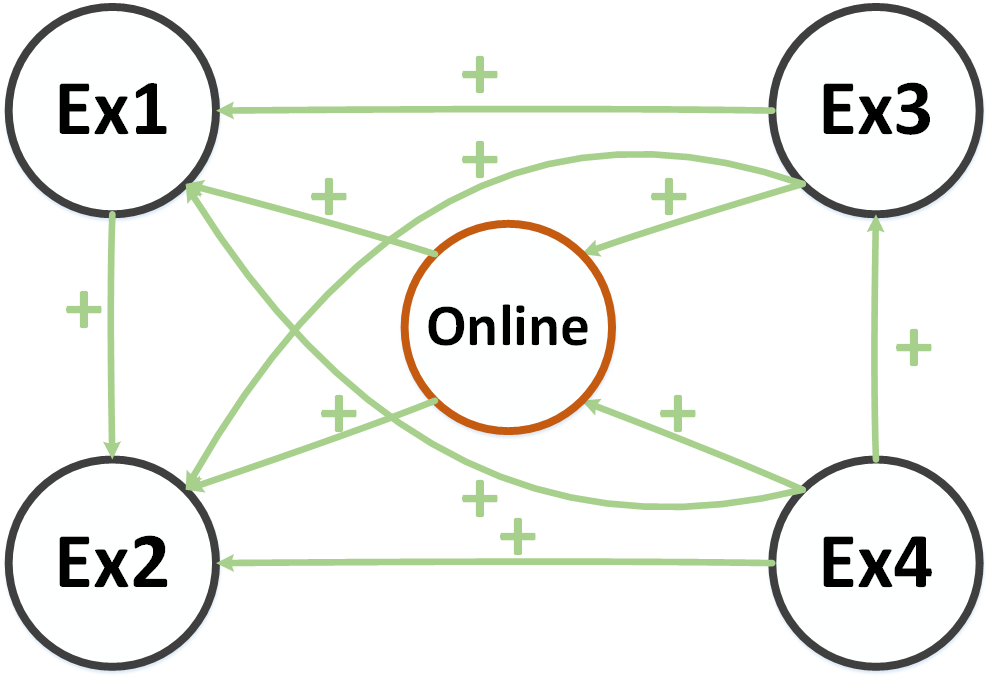
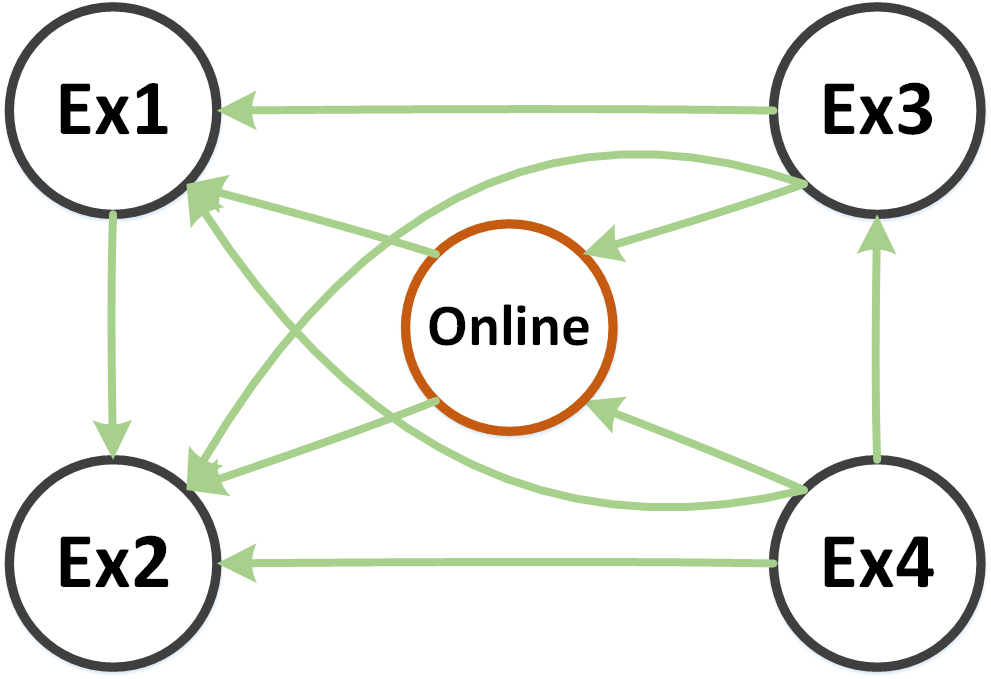
0311
0311午

diff --git a/For journal/sec/onlineobservability.tex b/For journal/sec/onlineobservability.tex
@@ -2,11 +2,12 @@
 % !TEX root = ../root.tex
 \section{The online observability of \BCNs}
 \label{sec:online}
-In this section we propose the online observability to solve the problem mentioned before, and we will introduce its related information in detail. We give the informal definition of it at first. 
-
+In this section we propose the online observability to solve the problem mentioned before, and we will introduce its related information in detail. 
 %\begin{definition}
-	A \BCN\ satisfies the online observability iff its initial state $s_0$ can be determined in real time for every $s_0 \in \Delta_N$. %In the online observability we determine the state of \BCN\ by observing its output sequence and then deriving and deciding the input sequence at every time step. What is more, this process can be accomplished in finite time steps.
+	 %In the online observability we determine the state of \BCN\ by observing its output sequence and then deriving and deciding the input sequence at every time step. What is more, this process can be accomplished in finite time steps.
 %\end{definition}  without presupposing the initial state of \BCN
+
+In the existing third and fourth observability, there has to exist an input sequence that determines its initial state $s_0$ if a \BCN\ satisfies the observability. But we can use different input sequences to determine initial state ($s_0\in S_0$) for different sets of possible initial states, where $S_0$ the set of possible initial states derived by initial output $o_1$ we observe. In this case, the requirements for \BCNs\ to determine the initail state would be less harsh since we utilize the set of possible initial states $S_0$ to find the input sequence. Furthermore, if we utilize the sets of possible initial states $S_0$ and $S_1$ to find the input sequence to determine the initail state, the requirements for \BCNs\ would further less harsh. Therefore, in the online observability we find input sequence by the $S_k$ we derive at every time step $k$, such that the requirements would be least harsh. Therefore, a \BCN\ satisfies the online observability iff its initial state $s_0$ can be determined in real time for every $s_0 \in \Delta_N$.
 
 The reason why we called this type of observability online observability is as follows.
 \begin{itemize}
@@ -14,15 +15,18 @@ The reason why we called this type of observability online observability is as f
   \item  Secondly, in the online observability, we use the outputs we observe to derive and decide the input sequence at every time step in the process of determining the initial state of \BCNs. By this way, we can make full use of the outputs and inputs to determine the initial state of \BCNs. We call this property {\em interactivity}.
 \end{itemize} 
 
-We need the {\em real-time} property to help us avoid repeating biological experiments, and the {\em real-time} property makes the online observability be the sufficient condition of determine the initial state $s_o$ of \BCNs\ in real time. However, the {\em interactivity} would help us to find the necessary condition by making full use of the outputs and inputs to determine the initial state of \BCNs. With the  {\em real-time} and {\em interactivity}, we called this type of observability online observability.
+%We need the {\em real-time} property to help us avoid repeating biological experiments, and the {\em real-time} property makes the online observability be the sufficient condition of determine the initial state $s_o$ of \BCNs\ in real time. However, the {\em interactivity} would help us to find the necessary condition by making full use of the outputs and inputs to determine the initial state of \BCNs. 
+With the  {\em real-time} and {\em interactivity}, we called this type of observability online observability.
 %\tl{maybe I did not understand this, but I think you are confusing two things: the observability and the algorithm (approach) to determine the initial state. It seems to me that you are describing a new approach (the online approach), but does this change the observability? if yes, how? Is this a stronger notion or a weaker notion or incomparable?}
 
 %The observability we propose can determine the initial state online.
  %Because in the process of determining the initial state every input of the input sequence is decided by the output we observe at every time step. 
-After introducing the properties of the online observability, we present the process of determining the initial state of \BCNs\ by online observability briefly. We observe the output of \BCNs\ at every time setp $k$ in the process of determining the initial state of \BCNs. Then, we can infer the possible values of state-nodes through the output and denote them by possible states set $S_k$. %Then as we can know the possible states set
-With the set of possible states we can derive the set of possible inputs $I_k$, such that for every $i\in I_k$ we have that $s_i, s_j$ will not turn into the same state after being affected by the input $i_k$ i.e., $Ls_i i_k\neq Ls_j i_k$ for any distinct $s_i, s_j\in S_k$. This principle will be shown in the equation (\ref{equ:12}). And then, we can decide the input by choosing it from the $I_k$ that this input will help us determine the initial state in real time. The way to decide the input will be presented in subsequent subsections. The cardinal number $|S_k|$ of possible states set does not change or decrease in this process. This principle will be shown in the equations (\ref{equ:9}) and (\ref{equ:10}). We repeat the above process, if the cardinal number of possible states set turn into be $1$ then we can determine the state and the initial state of {\em BCN}. 
+After introducing the properties of the online observability, we briefly present how to determine the initial state of \BCNs\ in real time. At every time setp $k$, we observe the output $o_k$ of \BCNs, then we can infer the set of possible states $S_k$ by the output $o_k$ at first. %Then as we can know the possible states set
+Secondly, with the set of possible states $S_k$ we can derive the set of possible inputs $I_k$, such that for every $i\in I_k$ we have that $s_i, s_j$ will not turn into the same state after being affected by the input $i_k$ i.e., $Ls_i i_k\neq Ls_j i_k$ for any distinct $s_i, s_j\in S_k$. This principle will be shown in the equation (\ref{equ:12}). And then, we can decide the input by choosing it from $I_k$. Thirdly, the set of possible initial states $S_{k+1}$ of next time step is derived by the input $i_k$ we chose and the new output $o_{k+1}$ we observe. The cardinal number of possible states set $|S_{k+1}|$ does not change or decrease in this process shown in the equations (\ref{equ:9}) and (\ref{equ:10}). If the cardinal number of new possible states set $|S_{k+1}|$ turn into be $1$ then we can determine the state and the initial state of {\em BCN}. 
 
- In the left of this section, firstly we define derivation function to describe the derivation process of the input and state of \BCNs\ at every time step. Secondly we present the definition of $k$-step determinability to help us decide the input. Thirdly, we give the formal definition of the online observability of \BCNs. Finally, we compare the online observability with four existing observability.
+Therefore, in the definition of online observability, firstly we need to describe how to derive the set of possible states of the \BCN\ by the output and input in every time step. So we define the derivation function to solve this problem. Secondly, we need to describe whether we can use a set of possible states determine the inistial state  in real time for every $s_0 \in \Delta_N$ by the above mentioned process, then we define the $K$-step determinability. Therefore, we have the definition of the online observability that for every set possible states we derived at time step $0$, it satisfies $K$-step determinability.
+
+ In the left of this section, firstly we define derivation function. Secondly we present the definition of $k$-step determinability (before $K$-step determinability). Thirdly, we give the formal definition of the online observability of \BCNs\ by derivation function and $K$-step determinability. Finally, we compare the online observability with four existing observability.
 \subsection{Derivation function}
 %Different from four existing observabilities, t
 
@@ -374,7 +378,7 @@ Therefore, the implication relationships graph between four existing observabili
 		\centerline{\includegraphics[scale=0.28]{figures/Fig8.png}}
 	}}
       
-      \caption{The implication relationships graph between existing observability 1, 2, 3, 4, and online observability where ``+" means ``implies".}
+      \caption{The implication relationships graph between existing observability 1, 2, 3, 4, and online observability where ``$\rightarrow$" means ``implies".}
       \label{fig:7}
    \end{figure}
 

diff --git a/For journal/sec/introduction.tex b/For journal/sec/introduction.tex
@@ -60,14 +60,14 @@ In {\em Section \ref{sec:pre}}, we will present the formal definition of four ob
 
 In the four existing observability, we can not determine the initail state of \BCNs\ in real time by the first and second observability. Although we can determine the initail state of \BCNs\ in real time by the third and fourth observability, the requirements for \BCNs\ to determine the initail state are very harsh. Thus, we consider that whether we can determine the initial state of some \BCNs\ which can not be determined by the third and fourth observability.
 
-In the porcess determining the initial state, we infer the set of possible initial states $S_k$ by observing the output of \BCN\ at every time step $k$. The input $i_k$ we chose should make every two distinct states (${s_k}^i$, ${s_k}^j$ ) in the set of possible initial states will not turn into be the same state after affected by $i_k$. And the set of possible initial states $S_{k+1}$ is derived by the input $i_k$ we chose and the new output $o_{k+1}$ we observe at the time step $k+1$, and we have $|S_{k+1}|\le|S_k|$. If $|S_{k+1}|=1$, we can determine the initial state $s_0$ of the \BCN.
+In the porcess determining the initial state, we infer the set of possible initial states $S_k$ by observing the output of \BCN\ at every time step $k$. The input $i_k$ we chose should make every two distinct states (${s_k}^i$, ${s_k}^j$ ) in the set of possible initial states will not turn into be the same state after affected by $i_k$. And the new set of possible initial states $S_{k+1}$ is derived by the input $i_k$ we chose and the new output $o_{k+1}$ we observe at the time step $k+1$, and we have $|S_{k+1}|\le|S_k|$. If $|S_{k+1}|=1$, we can determine the initial state $s_0$ of the \BCN.
 
-While, in the third and fourth observability, at every time step $k$, we choose the same input $i_k$ no matter which output $o_k$ we observe. This makes the requirements for \BCNs\ to determine the initail state are very harsh. In order to solve this problem, we propose the concept of online observability in this paper. With the online observability, we can determine the initial state of some \BCNs\ which can not be determined before.
+What's more, in the third and fourth observability, if a \BCN\ satisfies the observability there has to exist an input sequence that determines its initial state $s_0$. But we can also determine the set of possible initial states $S_0$ by initial output $o_1$ we observe, and then we use different input sequences to determine initial state ($s_0\in S_0$) for different sets of possible initial states. In this case, the requirements for \BCNs\ to determine the initail state would be less harsh because we utilize the set of possible initial states $S_0$ to find the input sequence. Then we propose the online observability in this paper wich means that we find input sequence by the $S_k$, where $S_k$ is the set of initail states derived at every time step $k$. With the online observability, we can determine the initial state of some \BCNs\ which can not be determined before.
 
 % With the output we observed at every time step, we can further determine the range of the initial state. As we can further determine the range, we can use different input sequence to determine the initial state. However, in the third and fourth existing observability, we have to use the same input sequence to determine the initial state without utilizing the range of the initial state. In this paper, we propose the concept of online observability which determine the initial state by making full use of the input and output of \BCNs. With the online observability, we can determine the initial state of some \BCNs\ which can not be determined before.
 %we do not utilize the range of the initial state to derive the input at every time step. In the online observability, we make full use of the input and output of \BCNs\ to determine their initial state. 
 
-In the online observability, we make full use of the input and output of \BCNs\ to determine their initial state. Therefore, a \BCN\ is online observable iff we can determine its initial state $s_0$ in real time for every initial state $s_0$. Comparing with the existing first and second observability, the online observability has the {\em real-time} property because we can determine the initial state in real time. However, comparing with the existing third and fourth observability, it has {\em interactivity} that we would make full use of the input and output of a \BCN\ to determine its initial state. With the {\em real-time} property and {\em interactivity}, we call this type of observability online observability. %In the porcess determining the initial state, we infer the set of possible initial states by observing the output of \BCN\ ar every time step. And then, we choose the input that every two distinct states in the possible initial states will not turn into be the same state after affected by this input. With the set of possible initial states, we can choose one input to refine the possible initial states set in the time step $k+1$. We repeat above procedure until the cardinality of initial states set turns into be one then we can determine the initial state of \BCNs. That is why we call this process a dynamic process. 
+In the online observability, we make full use of the input and output of \BCNs\ at every time step to determine their initial state. Therefore, a \BCN\ is online observable iff we can determine its initial state $s_0$ in real time for every initial state $s_0$. Comparing with the existing first and second observability, the online observability has the {\em real-time} property because we can determine the initial state in real time. However, comparing with the existing third and fourth observability, it has {\em interactivity} that we would make full use of the input and output of a \BCN\ to determine its initial state. With the {\em real-time} property and {\em interactivity}, we call this type of observability online observability. %In the porcess determining the initial state, we infer the set of possible initial states by observing the output of \BCN\ ar every time step. And then, we choose the input that every two distinct states in the possible initial states will not turn into be the same state after affected by this input. With the set of possible initial states, we can choose one input to refine the possible initial states set in the time step $k+1$. We repeat above procedure until the cardinality of initial states set turns into be one then we can determine the initial state of \BCNs. That is why we call this process a dynamic process. 
 
 In order to study online observability better, we formulate the formal definition for it. Firstly, we define the derivation function to describe the derivation process of the state of \BCNs\ by their output and input at every time step. Secondly, we propose the definition of the $K$-step determinability to present that we can use a set of possible current states to determine the current state of \BCNs\ in real time in finite time steps. The derivation function and $K$-step determinability are all preparations for defining the the online observability. Thirdly, we define the online observability that for every set of possible states which derived at the time step $0$, it satisfy $K$-step determinability. By the definition, we prove that online observability is the necessary and sufficient condition of determine the initial state of \BCNs\ in real time for every initial state. Finally, we compare the online observability with existing four observability. That the online observability implies the first and second observability but not imply the third and fourth observability.
 

diff --git a/For journal/sec/preliminaries.tex b/For journal/sec/preliminaries.tex
@@ -222,20 +222,31 @@ Therefore we have this \BCN\ does not satisfy the existing fourth observability.
 \end{example}  
 
 What is more, we know the implication relationships of four existing types of observability from the definitions of them \cite{Zhang2016Observability}. 
-\begin{proposition}
-The implication relationships of four existing types of observability.
-\begin{itemize}
-\item The first observability implies the second observability, but the second observability does not imply the first observability.\\
-\item The third observability implies the second observability, but the second observability does not imply the third observability.\\
-\item The third observability implies the first observability, but the first observability does not imply the third observability.\\
-\item The fourth observability implies the third observability, but the third observability does not imply the fourth observability.\\
-\item The fourth observability implies the second observability, but the second observability does not imply the fourth observability.\\
-\item The fourth observability implies the first observability, but the first observability does not imply the fourth observability. \\
-\end{itemize} 
-\end{proposition}
+
+ \begin{figure}[thpb]
+      \centering
+      \framebox{\parbox{3in}{
+		\centerline{\includegraphics[scale=0.27]{figures/Fig9.png}}
+	}}
+      
+      \caption{The implication relationships graph between existing observability 1, 2, 3, 4, where ``$\rightarrow$" means ``implies".}
+      \label{fig:9}
+   \end{figure}
+%\begin{proposition}
+%The implication relationships of four existing types of observability.
+%\begin{itemize}
+%\item The first observability implies the second observability, but the second observability does not imply the first observability.\\
+%\item The third observability implies the second observability, but the second observability does not imply the third observability.\\
+%\item The third observability implies the first observability, but the first observability does not imply the third observability.\\
+%\item The fourth observability implies the third observability, but the third observability does not imply the fourth observability.\\
+%\item The fourth observability implies the second observability, but the second observability does not imply the fourth observability.\\
+%\item The fourth observability implies the first observability, but the first observability does not imply the fourth observability. \\
+%\end{itemize} 
+%\end{proposition}
+
 Where the implication relationship is that ``The first observability implies the second observability.'' means ``If a \BCN\ satisfies the first observability then it satisfies the second observability.'' For the details of the proving process of this proposition, we refer readers to \cite{Zhang2016Observability}.
 %, when we don't presuppose the initial state of {\em BCNs}
- 
+   
 After introducing the definition of four existing observability and their implication relationship, we discuss how to determine the initial state of some \BCNs\ in real time by four existing types of observability. 
 \begin{itemize}
 \item The first and second observability can not help us to determine the initial state of some \BCNs\ in real time. Because in the first observability we need to assume that the initial state $s_0$ of a \BCN\ is $s_i$, and then check it by corresponding input sequence $I_i$ of this state. If the initial state we assume is correct, then we can determine the initial state $s_0=s_i$. But if the assumption is not correct, we can not determine the initial state of the \BCN. Therefore we need to check several test cases (with the same initial state $s_0$) of this \BCN\ untill we can determine the initial state of them. So do the existing second observability of \BCNs.
